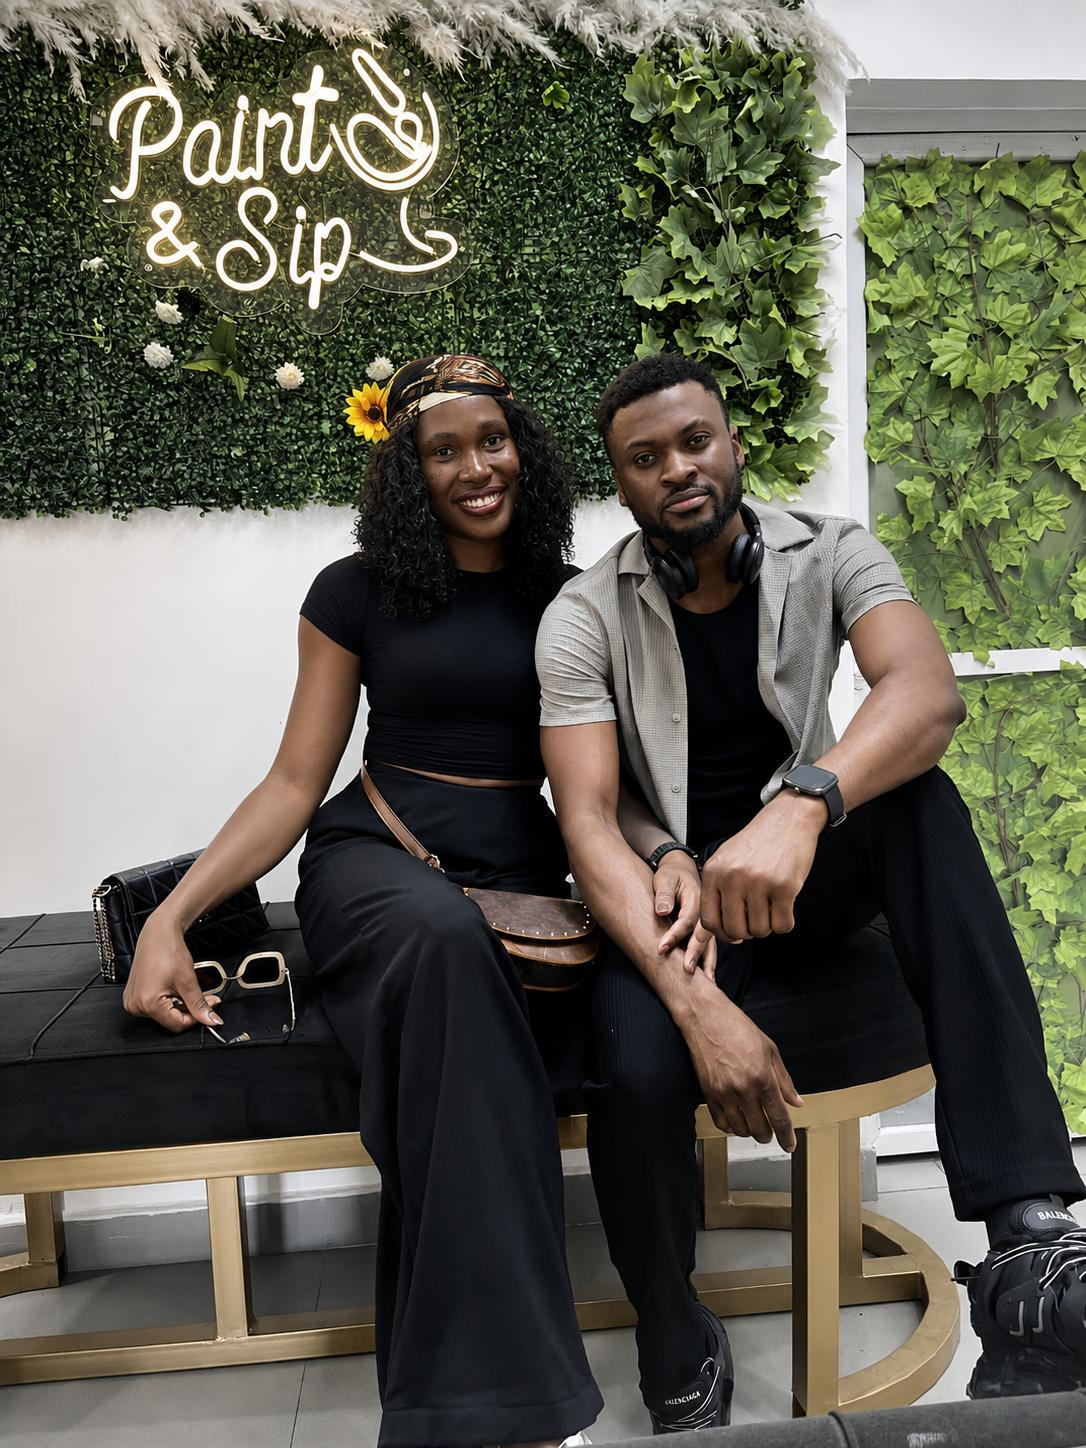
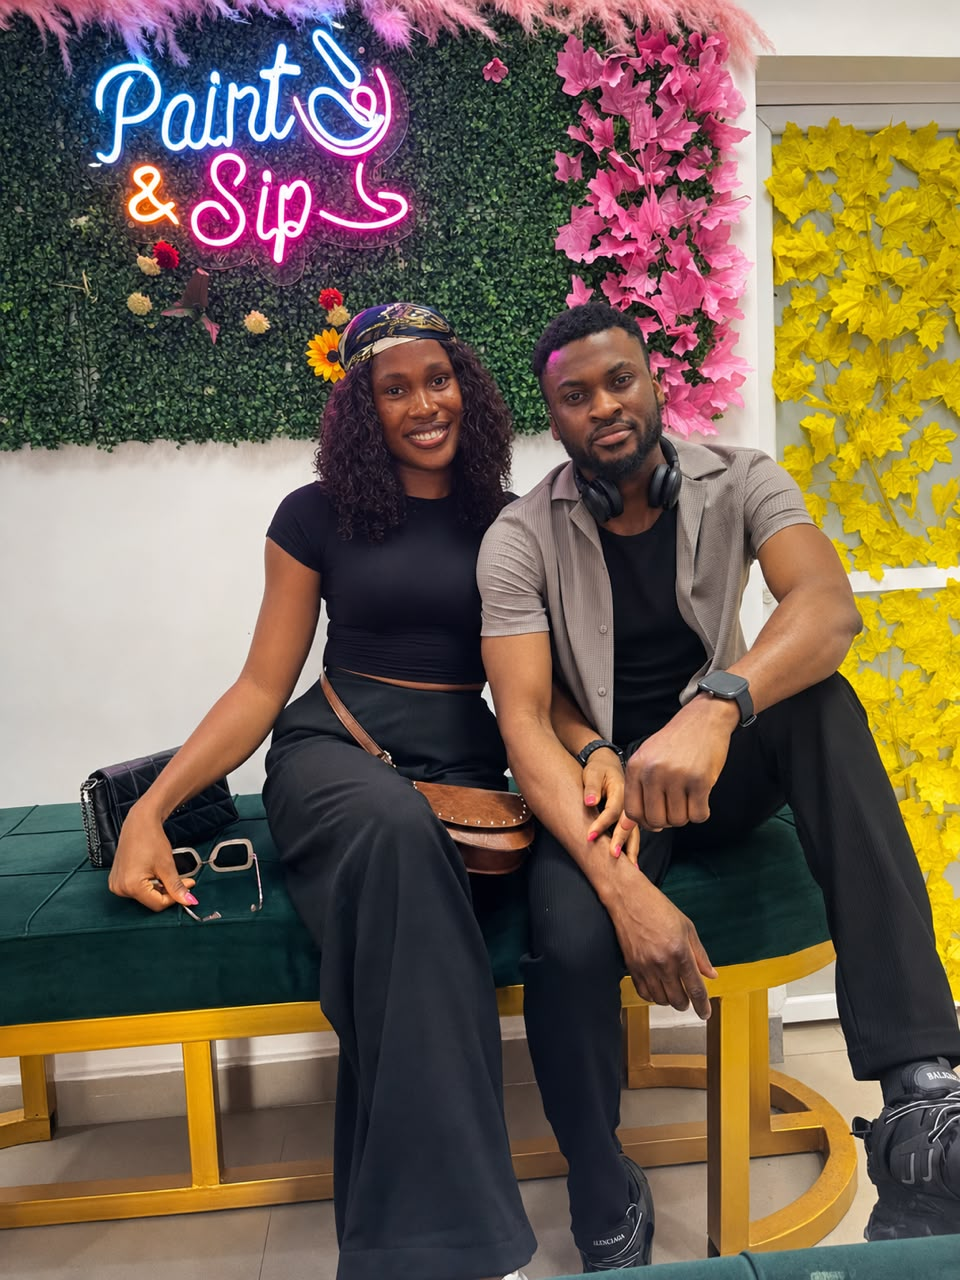
fix correction

diff --git a/data/site-content.ts b/data/site-content.ts
@@ -23,7 +23,7 @@ export const about = {
   groom: {
     name: "Francis Chisom Ogwudu",
     title: "The Groom",
-    bio: "A calm medical radiographer from Enugu, currently working at Princess Diane Hospital, United Kingdom. Francis leads with kindness, loves deeply, and brings joy and steadiness to everyone around him.",
+    bio: "A calm medical radiographer from Enugu, currently practicing in the United Kingdom. Francis leads with kindness, loves deeply, and brings joy and steadiness to everyone around him.",
     hobbies: ["Games", "Football", "Sunday jollof experiments"],
     image: "/images/groom-1.jpg",
   },
@@ -75,7 +75,7 @@ export const loveLetters = {
     ],
   },
   herInk: {
-    title: "❤ THE CAPTURE ❤",
+    title: "❤ HER INK ✍🏾 ❤",
     subtitle: "How the quiet one became my favorite person 🥰",
     paragraphs: [
       "Back in school, my first impression of him was, that guy who keeps to himself 🙄. I had no idea he was on his way to becoming my favorite person 🥰.",
@@ -94,7 +94,7 @@ export const weddingDetails = [
   },
   {
     label: "Reservation",
-    value: "Oaksvale Home, Enugu State",
+    value: "To be confirmed with RSVP",
   },
   {
     label: "Time",
@@ -197,7 +197,6 @@ export const bridalParty = {
 } as const;
 
 export const galleryImages = [
-  "/images/groom-bride-1.jpg",
   "/images/groom-bride-2.jpg",
   "/images/groom-bride-4.jpg",
   "/images/groom-2.jpg",
@@ -238,11 +237,7 @@ export const faqItems = [
     answer:
       "We love your little ones. However, due to venue capacity, this is an adults-only celebration unless noted on your invite.",
   },
-  {
-    question: "Is transportation available?",
-    answer:
-      "Yes. Transportation available from church to reception venue. Full schedule comes after RSVP.",
-  },
+
   {
     question: "What time should I arrive?",
     answer:
